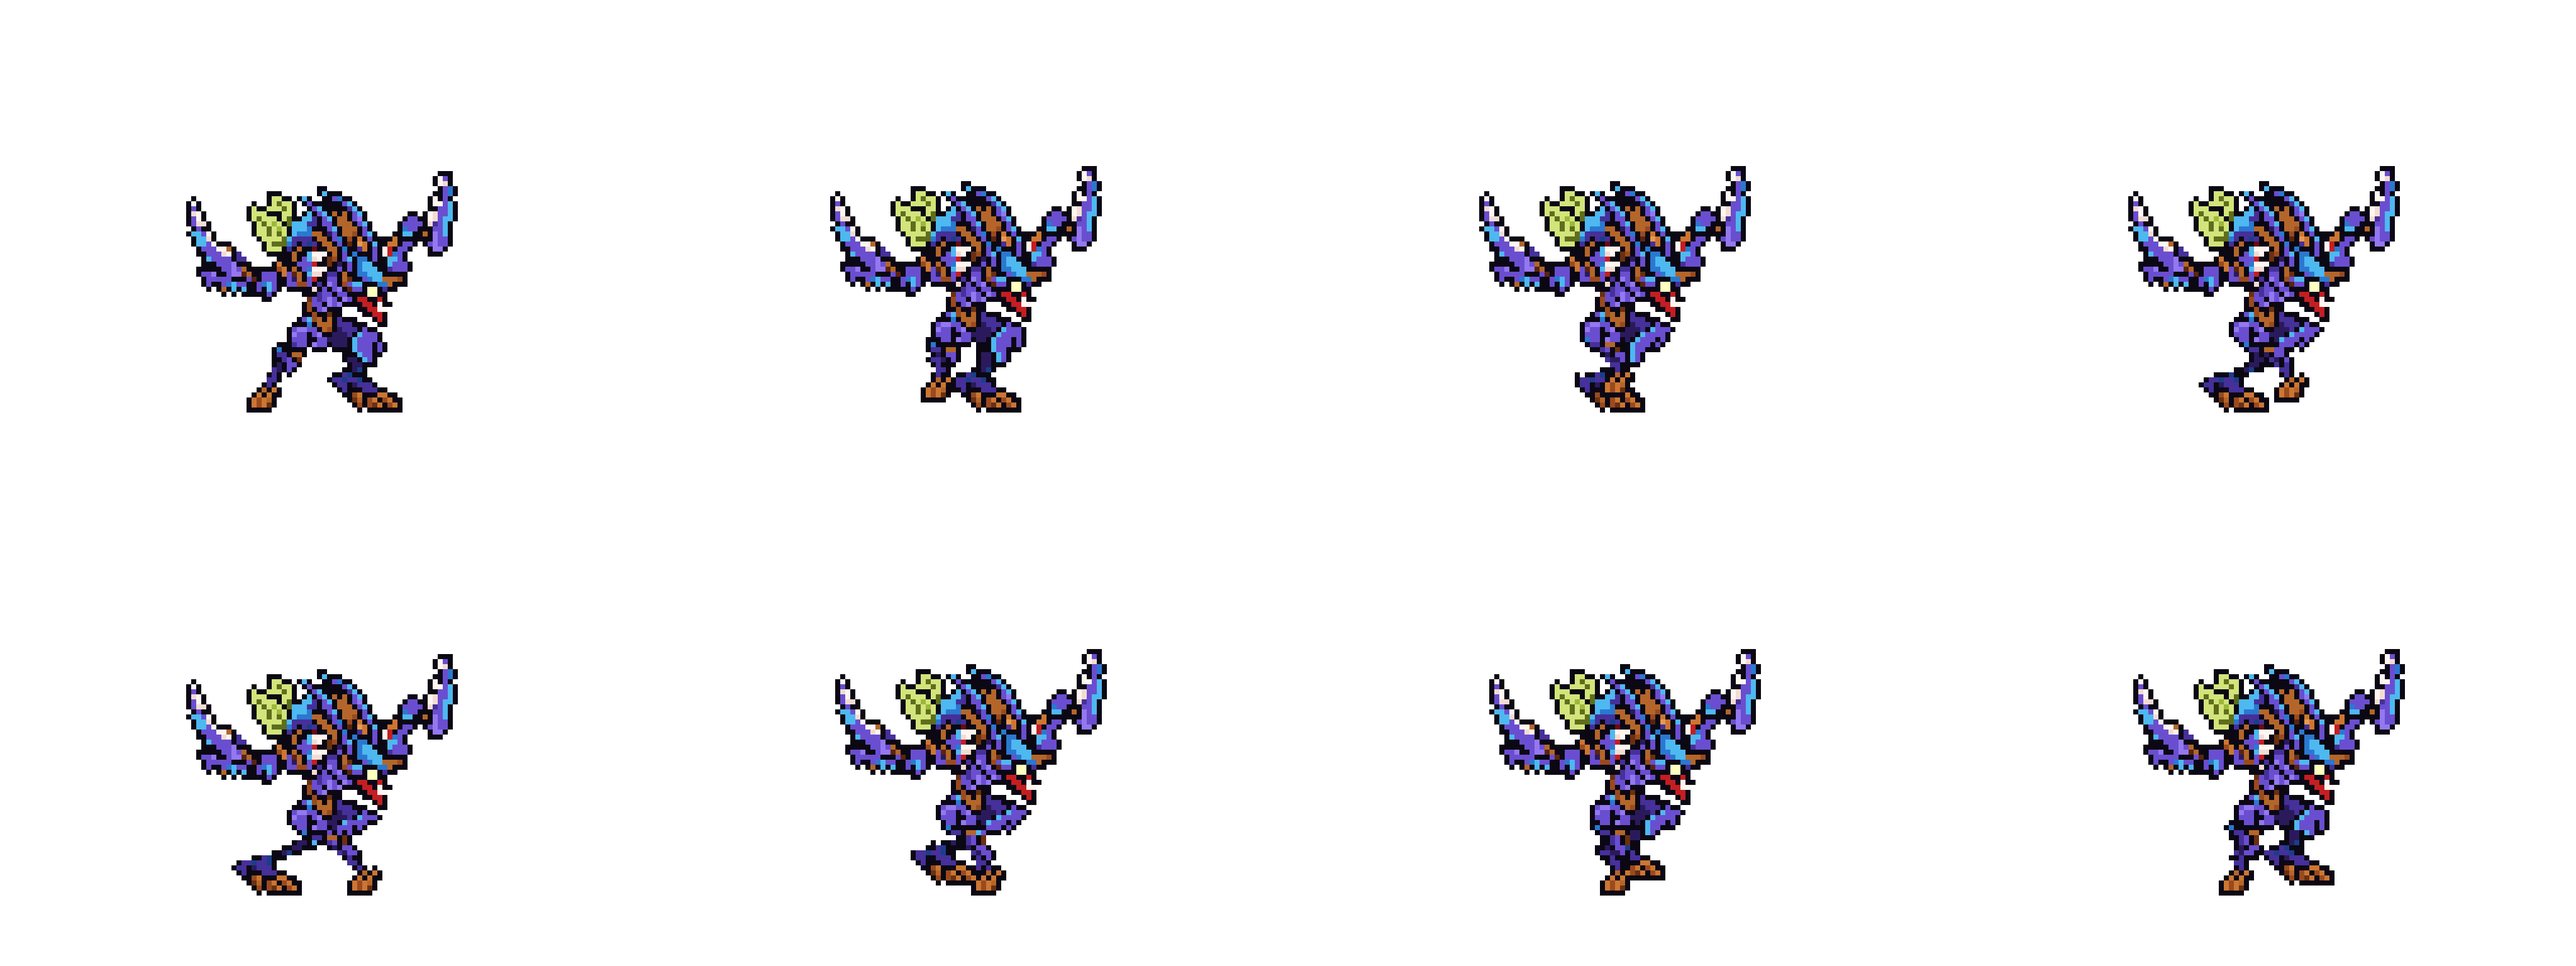
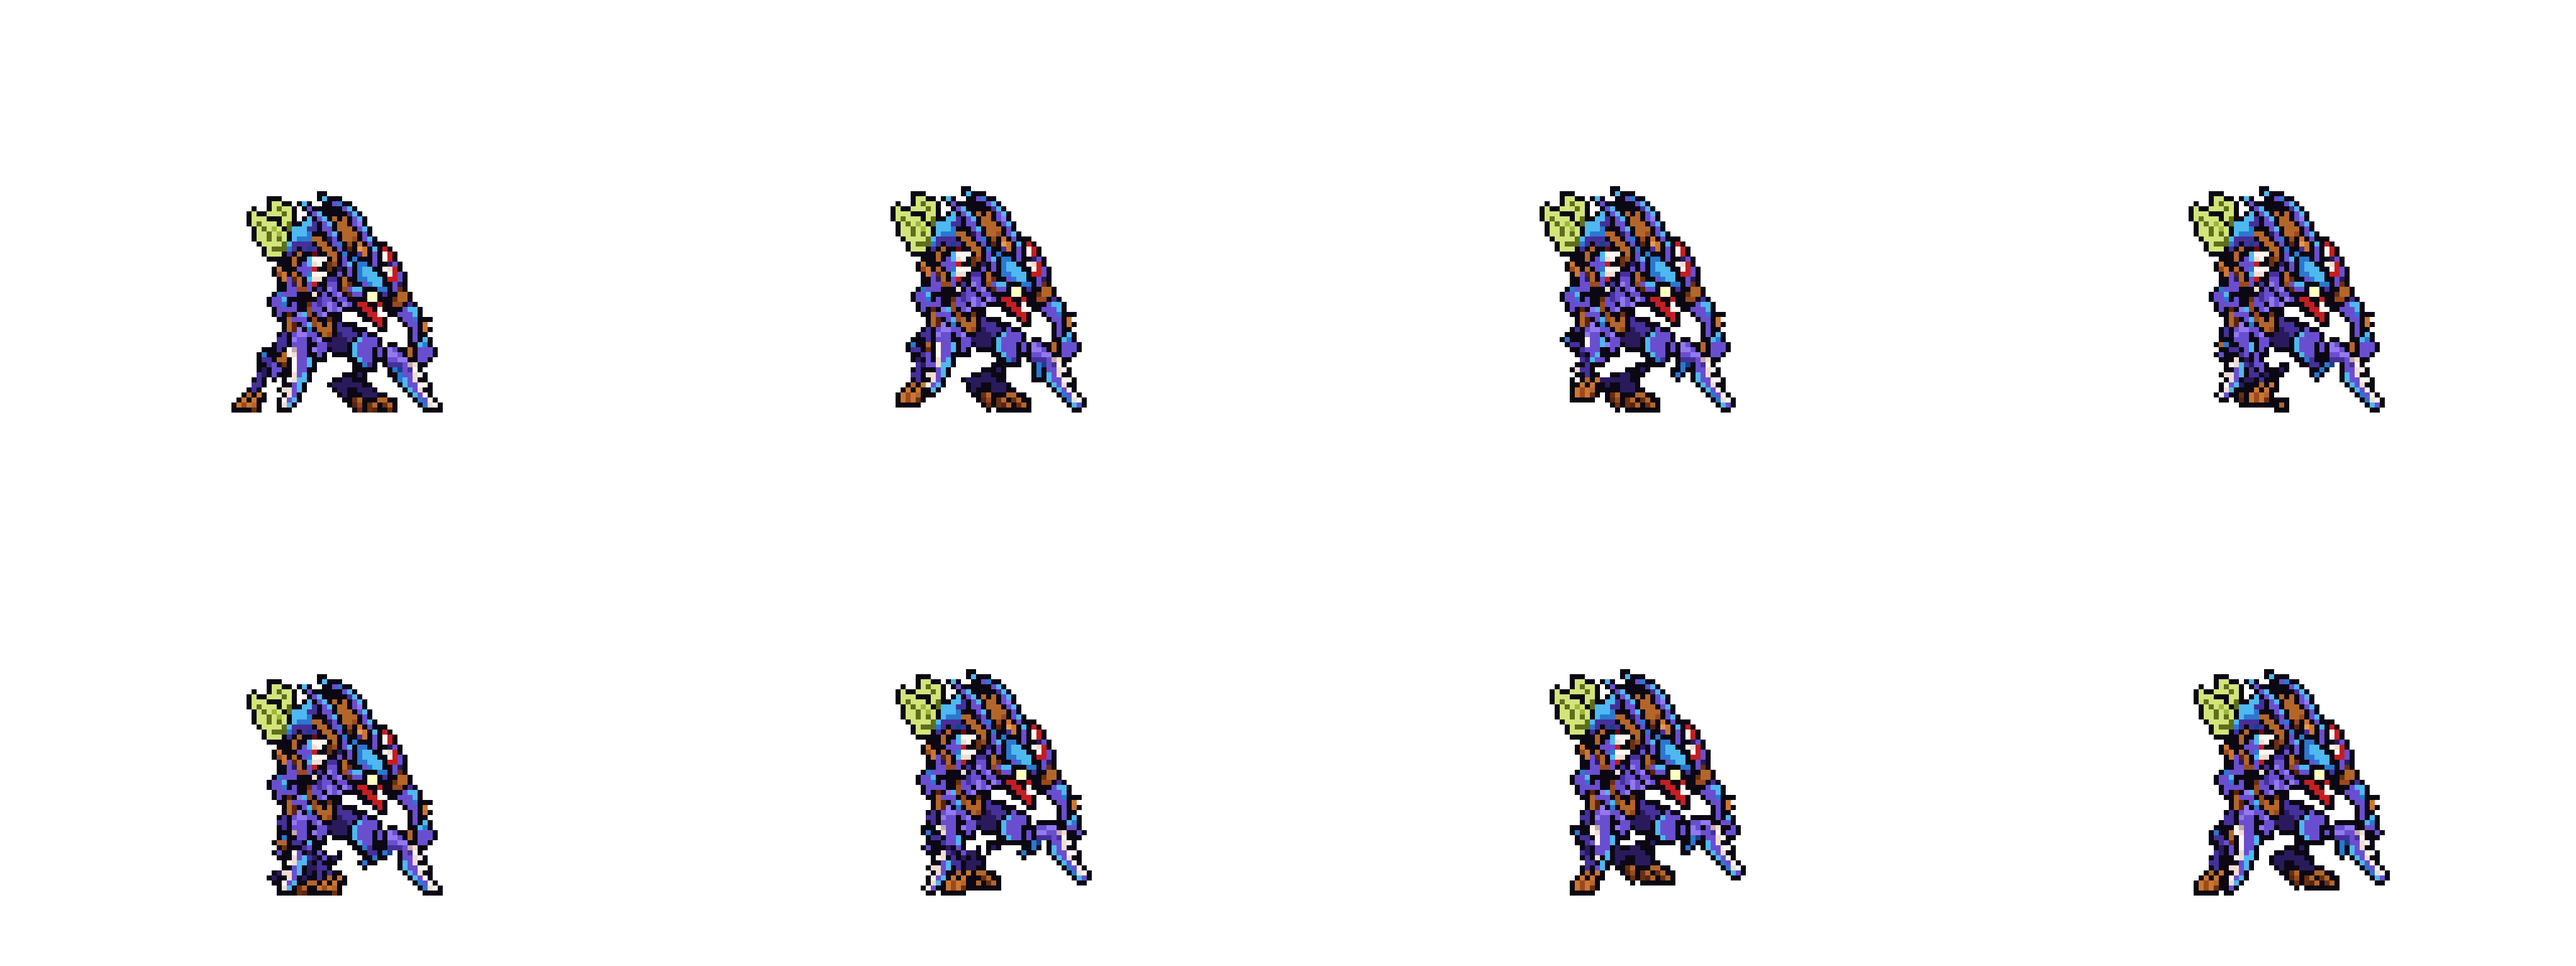
Kha'Zix run: back to v2 (claws down, lifted in turn; the raised-claw v4 and the v3 gap fill dropped), only the legs' lost pixels fixed - the whole leg lifted, rows bridged (「之前那一版只是腿部有像素缺失」)

diff --git a/tools/art/fix_khazix_strips.py b/tools/art/fix_khazix_strips.py
@@ -13,13 +13,11 @@ death (rig_samira.py's): frames 1-2 Codex's (struck, knocked back), then the WHO
 image left, the bent insect legs up at the right - first a row above the ground (the bounce), then on it.
 The run was Codex's rows of the legs shifted in place - the feet slid, the legs never crossed, and the two scythe
 claws that hang to the ground in the design (they read as two more legs) stood still: the user, 「走路时腿有点奇怪啊 这是
-交叉步？」, then 「腿部移动时缺失模型看不到？」 and 「修一下吧 还有问题」 on a version that only lifted the claws in turn (the legs
-still hid behind them and their gaps were filled into a dark blob). RUN builds it as League's run: both claws raised at
-his sides, the blades up - Codex's own arm units (its masks and shoulder joints) turned whole by 135 degrees (FA, NA) -
-so the two insect legs show; the legs (Codex's masks, the image-left one tucked TUCK columns in under the body) swung
-from their hips by row shear with the foot whole (CYCLE: the feet cross, each lifted while it passes under the body,
-mapped target row -> source row so a stretched leg never breaks), in the design's own colours (the mid leg is already
-a shade darker than the lit left one), the body a row up between the landings; the gaps between the legs stay open.
+交叉步？」. RUN rebuilds it from the design (rig_samira.py's accepted run): the two insect legs cut out (NEAR_LEG, the
+image-left one, and FAR_LEG under the body), each swung from its hip by row shear with the foot moved whole (STRIDE: the
+feet cross, each lifted while it passes under the body, the lift spread along the shin so the foot never comes off),
+the far leg one shade darker, the body (everything else, the pasted head with it) bobbing a row on each landing, and
+the two claws (BACK_CLAW, FRONT_CLAW: their parts under CLAW_ROW) lifted in turn off the ground as the legs pass.
 Reads codex_strips/khazix_<tag>.png (8x) and khazix_cells.json, writes assets/source/native/khazix_<tag>.png (8x) and
 khazix_cells.json for tools/art/import_native.py. --check only prints what would change.
 """
@@ -41,7 +39,6 @@ import rigkit as K  # noqa: E402
 SRC = os.path.join(ROOT, "assets", "source", "khazix", "codex_strips")
 OUT = os.path.join(ROOT, "assets", "source", "native")
 DESIGN = os.path.join(OUT, "khazix_native.png")
-HEAD = os.path.join(OUT, "khazix_head_1x.png")     # the head pasted in every frame (the strips pack's)
 TAGS = ["idle", "run", "attack", "skill", "skill2", "ult", "hit", "dead"]
 Z = 8
 PIVOT = (64, 88)                 # the design's standing point (the soles on row 99)
@@ -53,112 +50,105 @@ DEAD = ["codex", "codex", ("tilt", 45, -6), ("lying", 1, -8), ("lying", 0, -8), 
         ("lying", 0, -8)]
 
 
-# ---- the run (the design's canvas: soles on row 99; the masks are Codex's, codex_strips/raw/build_khazix_strips.py)
-def _rows(spec, op):
-    m = np.zeros(op.shape, bool)
-    for y, (x0, x1) in spec.items():
-        m[y, x0:x1 + 1] = True
-    return m & op
+# ---- the run (the design's canvas: soles on row 99)
+NEAR_HIP, NEAR_FOOT = 84, 95        # the image-left leg: from its hip (hidden under the body) to the toe claws' rows
+FAR_HIP, FAR_FOOT = 89, 95
+CLAW_ROW = 88                       # the claws' parts from this row down lift off the ground
+# per frame: near foot dx, near lift, far foot dx, far lift, back-claw lift, front-claw lift, body bob (rows down)
+STRIDE = [(0, 0, 0, 0, 0, 0, 1), (4, 1, -3, 0, 2, 0, 0), (9, 2, -7, 0, 3, 0, 0), (14, 1, -11, 0, 2, 0, 0),
+          (16, 0, -14, 0, 0, 0, 1), (12, 0, -10, 1, 0, 2, 0), (7, 0, -6, 2, 0, 3, 0), (3, 0, -2, 1, 0, 2, 0)]
+BONE = {(242, 220, 212), (255, 246, 240), (200, 168, 168)}     # the claws' edge colours (never part of a leg)
 
 
-ARM_FAR = {**{y: (55, 60) for y in range(75, 77)}, **{y: (55, 61) for y in range(77, 80)},
-           **{y: (56, 62) for y in range(80, 82)}, **{y: (57, 64) for y in range(82, 84)},
-           **{y: (57, 65) for y in range(84, 86)}, **{y: (57, 64) for y in range(86, 88)}, 88: (58, 65), 89: (58, 64),
-           90: (58, 63), 91: (58, 62), 92: (57, 62), 93: (58, 61), 94: (57, 61), 95: (57, 60), 96: (57, 60),
-           97: (56, 59), 98: (56, 59), 99: (56, 58)}          # the image-left arm with its claw, from the shoulder
-ARM_NEAR = {**{y: (78, 84) for y in range(75, 78)}, **{y: (79, 87) for y in range(78, 82)},
-            **{y: (81, 87) for y in range(82, 85)}, **{y: (77, 86) for y in range(85, 88)}, 88: (77, 85), 89: (77, 84),
-            90: (79, 84), 91: (80, 85), 92: (80, 86), 93: (81, 86), 94: (81, 87), 95: (82, 87), 96: (83, 88),
-            97: (84, 88), 98: (85, 88), 99: (86, 88)}         # the image-right arm with its claw
-LEG_LEFT = {**{y: (56, 61) for y in range(83, 86)}, **{y: (52, 59) for y in range(86, 90)},
-            **{y: (50, 56) for y in range(90, 95)}, **{y: (47, 54) for y in range(95, 100)}}
-LEG_MID = {83: (68, 75), **{y: (68, 77) for y in range(84, 89)}, **{y: (64, 77) for y in range(89, 94)},
-           **{y: (64, 81) for y in range(94, 100)}}
-# the hips the image-left arm covered in the design: kept on the body (without the claw's edge colour) so the raised
-# arm leaves no notch and the left leg joins the body
-HIP_BRIDGE = {**{y: (61, 67) for y in range(81, 84)}, **{y: (59, 67) for y in range(83, 87)}}
-SHOULDER_FAR, SHOULDER_NEAR = (56.5, 75.5), (79.5, 75.5)
-FA, NA = -135, 135        # the claws raised at his sides, the blades up (League's run): each arm turned whole
-TUCK = 3                  # the image-left leg's hip moved in under the body (the idle's stance is wide)
-LEGS = {"left": (LEG_LEFT, 84, 95), "mid": (LEG_MID, 84, 94)}   # mask, hip row, ankle row
-# per frame: left (dx, lift), mid (dx, lift), the body up (rows): the feet cross - the left (lit) foot back in frame 1
-# and forward in frame 5, the mid (shaded) one the other way, each lifted while it passes under the body; the body a
-# row up between the landings
-CYCLE = [((0, 0), (0, 0), 0), ((6, 2), (-5, 0), 1), ((12, 3), (-10, 0), 1), ((17, 2), (-15, 0), 1),
-         ((20, 0), (-20, 0), 0), ((15, 0), (-14, 2), 1), ((10, 0), (-8, 3), 1), ((5, 0), (-3, 2), 1)]
-BONE = [(200, 168, 168), (242, 220, 212), (255, 246, 240)]       # the claws' edge colours
-WING_GREEN = [(94, 110, 28), (156, 184, 58), (210, 228, 122)]
+def leg_masks(d):
+    op = d[..., 3] > 0
+    yy, xx = np.mgrid[0:d.shape[0], 0:d.shape[1]]
+    bone = np.zeros(op.shape, bool)
+    for c in BONE:
+        bone |= (d[..., :3] == c).all(-1)
+    near = op & ~bone & (((yy >= NEAR_HIP) & (xx <= 55)) | ((yy >= 82) & (yy < NEAR_HIP) & (xx >= 52) & (xx <= 55)))
+    far = op & ~bone & (yy >= FAR_HIP) & (xx >= 63) & (xx <= 80)
+    back = op & ~near & ~far & (yy >= CLAW_ROW) & (xx >= 53) & (xx <= 63)
+    front = op & ~near & ~far & (yy >= CLAW_ROW) & (xx >= 75)
+    return near, far, back, front
 
 
-def _colours(a, cols):
-    m = np.zeros(a.shape[:2], bool)
-    for c in cols:
-        m |= (a[..., :3] == np.array(c, np.uint8)).all(-1) & (a[..., 3] > 0)
-    return m
+def darker(d):
+    """Each colour -> the design's next darker colour of a like hue (the outline stays)."""
+    op = d[..., 3] > 0
+    pal = np.unique(d[op][:, :3], axis=0).astype(int)
+    lum = pal @ np.array([299, 587, 114]) / 1000
+    out = {}
+    for c, l in zip(pal, lum):
+        cand = [(p, pl) for p, pl in zip(pal, lum) if pl < l - 6]
+        if l < 30 or not cand:
+            out[tuple(c)] = tuple(c)
+            continue
+        cn = c / max(1, c.sum())
+        out[tuple(c)] = tuple(min(cand, key=lambda q: 400 * np.abs(q[0] / max(1, q[0].sum()) - cn).sum() + (l - q[1]))[0])
+    return out
 
 
-class Run:
-    def __init__(self, d, head, ink):
-        op = d[..., 3] > 0
-        self.d, self.ink = d, ink
-        hm = head[..., 3] > 0
-        far, near = _rows(ARM_FAR, op) & ~hm, _rows(ARM_NEAR, op) & ~hm
-        left = _rows(LEG_LEFT, op) & ~(far | near | hm)
-        mid = _rows(LEG_MID, op) & ~(far | near | hm | left)
-        self.legs = {"left": (left, LEGS["left"][1], LEGS["left"][2]), "mid": (mid, LEGS["mid"][1], LEGS["mid"][2])}
-        bridge = _rows(HIP_BRIDGE, op) & ~hm & ~_colours(d, BONE)
-        base = d.copy()
-        base[far | near | left | mid] = 0
-        base[bridge] = d[bridge]
-        green = _colours(d, WING_GREEN)
-        ring = np.zeros_like(green)
-        for dy in (-1, 0, 1):
-            for dx in (-1, 0, 1):
-                ring |= np.roll(np.roll(green, dy, 0), dx, 1)
-        wing = green | (ring & _colours(d, [tuple(ink)]))
-        wing[69:] = False
-        wing[:, 61:] = False
-        self.wing = np.where(wing[..., None], base, 0).astype(np.uint8)
-        self.torso = base.copy()
-        self.torso[wing] = 0
-        self.far = K.turn(K.Part.from_canvas(d, far, SHOULDER_FAR), FA)
-        self.near = K.turn(K.Part.from_canvas(d, near, SHOULDER_NEAR), NA)
-        self.hm = hm
+INK = (11, 8, 20)        # the design's outline colour
 
-    def leg(self, name, dx, lift, up, shift=0):
-        """The leg sheared from its hip (the foot whole), the hip rising `up` with the body and the foot `lift` off the
-        ground; each target row takes its source row (a stretched leg repeats a row instead of breaking)."""
-        mask, hip, ankle = self.legs[name]
-        ys, _ = np.nonzero(mask)
-        r0, r1 = int(ys.min()), int(ys.max())
-        t = lambda r: min(1.0, max(0.0, (r - hip) / max(1, ankle - hip)))
-        target = {r: r - int(math.floor(up * (1 - t(r)) + lift * t(r) + 0.5)) for r in range(r0, r1 + 1)}
-        out = np.zeros_like(self.d)
-        for y in range(min(target.values()), max(target.values()) + 1):
-            src = [r for r in range(r0, r1 + 1) if target[r] <= y]
-            r = max(src) if src else r0
-            sh = int(math.floor(dx * t(r) + 0.5)) + shift
-            for c in np.nonzero(mask[r])[0]:
-                if 0 <= c + sh < out.shape[1]:
-                    out[y, c + sh] = self.d[r, c]
-        return out
 
-    def frame(self, k):
-        """Back to front: the shaded mid leg, the lit left leg, the wings, the raised far arm (over the wings, under
-        the torso), the torso with the pasted head, the raised near arm."""
-        (ldx, llift), (mdx, mlift), up = CYCLE[k]
-        out = np.zeros_like(self.d)
-        K.put(out, self.leg("mid", mdx, mlift, up), 0, 0)
-        K.put(out, self.leg("left", ldx, llift, up, TUCK), 0, 0)
-        K.put(out, K.shifted(self.wing, 0, -up), 0, 0)
-        K.place(out, self.far, (SHOULDER_FAR[0], SHOULDER_FAR[1] - up))
-        K.put(out, K.shifted(self.torso, 0, -up), 0, 0)
-        K.place(out, self.near, (SHOULDER_NEAR[0], SHOULDER_NEAR[1] - up))
-        out[SOLES + 1:] = 0
-        head = np.zeros_like(self.hm)
-        head[:head.shape[0] - up] = self.hm[up:]
-        # pinholes of one square only: the gaps between the legs stay open (rigkit.finish would fill 2-3)
-        return K.finish(out, self.ink, SOLES, keep=head, pinholes=1)
+def swung(d, mask, hip, foot, dx, lift, drop, shade=None):
+    """The leg's squares sheared from the hip: rows above `foot` moved across in proportion to dx, the foot whole; the
+    WHOLE leg lifted `lift` rows (its top goes under the body) - lifting only the lower rows in proportion pressed rows
+    onto each other and lost up to 15 of the far leg's 110 squares; where the shear steps a row more than a square
+    across, the row is bridged to the one above in its own colours, so the leg never breaks into pieces (the user:
+    「腿部移动时缺失模型看不到？」, 「之前那一版只是腿部有像素缺失」)."""
+    out = np.zeros_like(d)
+    ys, _ = np.nonzero(mask)
+    prev = None
+    for r in range(int(ys.min()), int(ys.max()) + 1):
+        cols = np.nonzero(mask[r])[0]
+        if not len(cols):
+            prev = None
+            continue
+        t = min(1.0, max(0, r - hip) / max(1, foot - hip))
+        sh = int(math.floor(dx * t + 0.5))
+        rr = r - lift + drop
+        if not 0 <= rr < d.shape[0]:
+            continue
+        row = {}
+        for c in cols:
+            px = d[r, c].copy()
+            if shade is not None:
+                px[:3] = shade[tuple(int(v) for v in px[:3])]
+            row[c + sh] = px
+        if prev is not None:
+            # bridge: this row's run must touch the run above (8-connected); if it does not, the squares between take
+            # the row's own commonest inner colour
+            lo, hi = min(row), max(row)
+            plo, phi = prev
+            inner = [tuple(int(v) for v in px) for px in row.values() if tuple(int(v) for v in px[:3]) != INK]
+            fill = np.array(max(set(inner), key=inner.count) if inner else tuple(next(iter(row.values()))), np.uint8)
+            gap = range(hi + 1, plo) if hi < plo - 1 else range(phi + 1, lo) if lo > phi + 1 else range(0)
+            for c in gap:
+                row[c] = fill
+        for c, px in row.items():
+            if 0 <= c < d.shape[1]:
+                out[rr, c] = px
+        prev = (min(row), max(row))
+    return out
+
+
+def run_frame(d, k, masks, shade):
+    near, far, back, front = masks
+    nd, nl, fd, fl, bl, frl, bob = STRIDE[k]
+    rest = d.copy()
+    rest[near | far | back | front] = 0
+    out = np.zeros_like(d)
+    K.put(out, swung(d, far, FAR_HIP, FAR_FOOT, fd, fl, bob, shade), 0, 0)
+    K.put(out, K.shifted(rest, 0, bob), 0, 0)
+    claw = lambda m, lift: K.shifted(np.where(m[..., None], d, 0).astype(np.uint8), 0, bob - lift)
+    K.put(out, claw(back, bl), 0, 0)
+    # the near leg over the back claw (it is the leg nearest the viewer), under the front claw
+    K.put(out, swung(d, near, NEAR_HIP, NEAR_FOOT, nd, nl, bob), 0, 0)
+    K.put(out, claw(front, frl), 0, 0)
+    out[SOLES + 1:] = 0
+    return out
 
 
 def at1x(path):
@@ -201,20 +191,19 @@ def main():
     cw, ch = cells["cell"]
     design = at1x(DESIGN) if Image.open(DESIGN).size[0] != 128 else np.asarray(Image.open(DESIGN).convert("RGBA")).copy()
     ink = outline_colour(design)
-    head = np.asarray(Image.open(HEAD).convert("RGBA"))
     for tag in TAGS:
         sheet = at1x(os.path.join(SRC, f"khazix_{tag}.png"))
         if tag == "run":
             cols = sheet.shape[1] // cw
-            run = Run(design, head, ink)
-            for i in range(len(CYCLE)):
-                fig = run.frame(i)
+            masks, shade = leg_masks(design), darker(design)
+            for i in range(len(STRIDE)):
+                fig = K.finish(run_frame(design, i, masks, shade), ink, SOLES)
                 X, Y = (i % cols) * cw, (i // cols) * ch
                 px, py = cells["tags"][tag][i]["pivot"]
                 cell = np.zeros((ch, cw, 4), np.uint8)
                 K.put(cell, fig, px - PIVOT[0], py - PIVOT[1])
                 sheet[Y:Y + ch, X:X + cw] = cell
-            print("run: 8 frames rebuilt from the design (claws raised, crossing legs)")
+            print("run: 8 frames rebuilt from the design (crossing legs, claws lifted in turn)")
         if tag == "dead":
             cols = sheet.shape[1] // cw
             for i, what in enumerate(DEAD):
